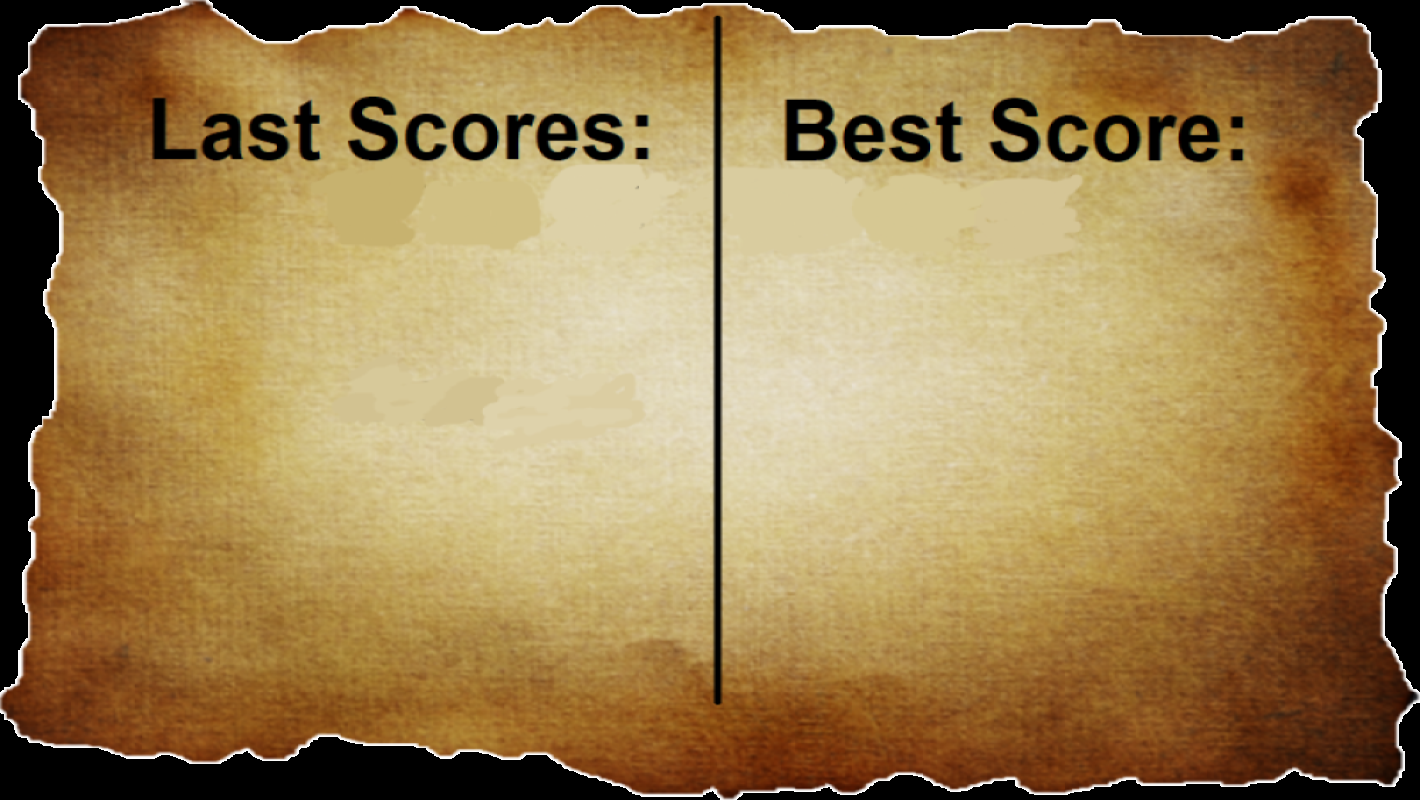
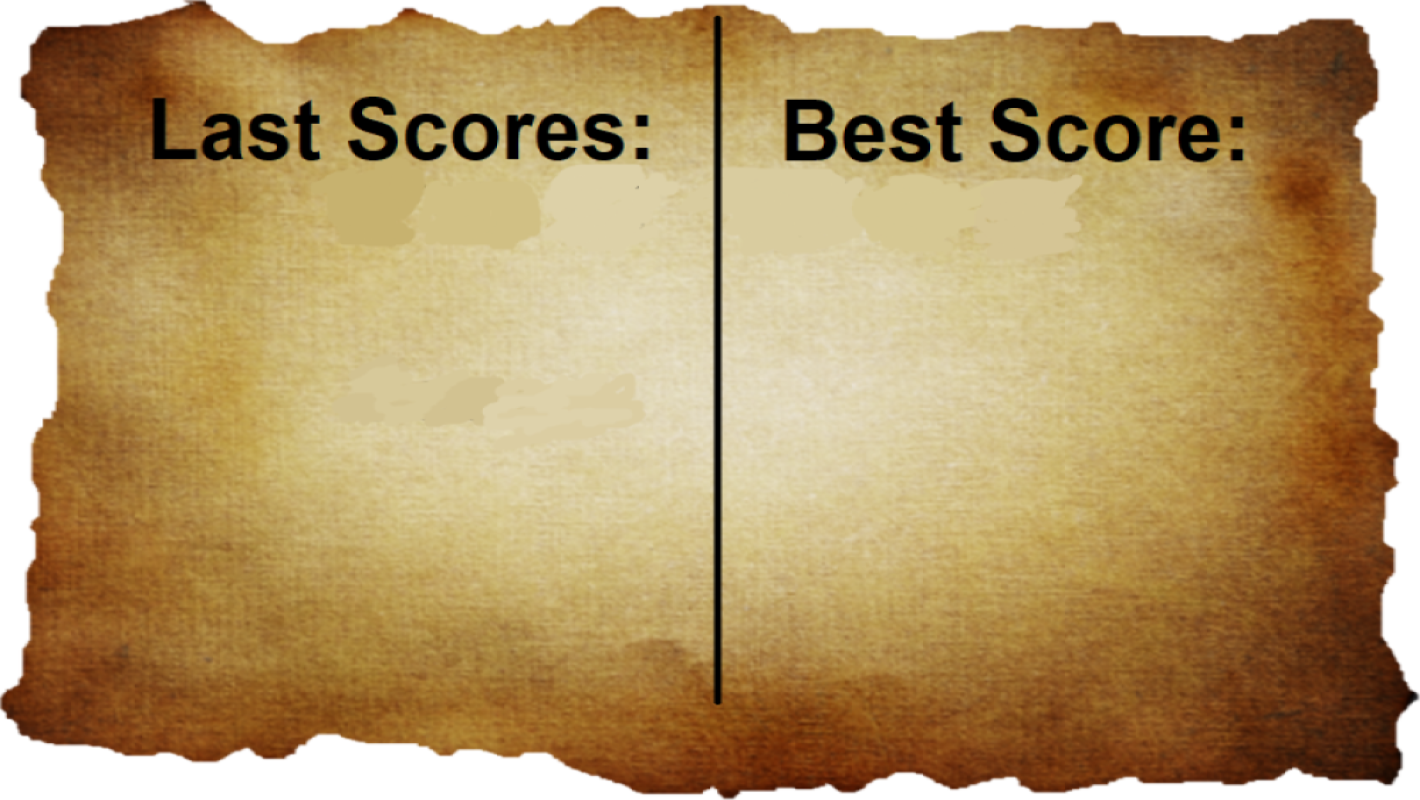
Zapisywanie wyniku imale poprawki

Changed region(s): [[0.0, 0.0, 1.0, 1.0], [0.0, 0.0, 0.1239, 0.875]]

diff --git a/IceTower/GameOverState.cpp b/IceTower/GameOverState.cpp
@@ -11,61 +11,60 @@
 
 namespace Bartux
 {
-	GameOverState::GameOverState(GameDataRef data, int score) : _data(data) , _score(score)
+	GameOverState::GameOverState(GameDataRef data, int score) : _data(data), _score(score)
 	{
 
 	}
 
 	void GameOverState::Init()
 	{
-		std::ifstream readFile;
-		readFile.open("Wyniczki.txt");
+		//wczytaj wyniki z dysku
+		record rekordy[5];
+		std::ifstream readFile("Wyniczki.txt");
 
-
-		if (readFile.is_open())
-		{
-			while (!readFile.eof())
-			{
-				readFile >> _bestScore;
-			}
+		if (readFile.is_open()) {
+			for (size_t i = 0; i < 5; i++)
+				readFile >> rekordy[i].time >> rekordy[i].score;
+			readFile >> _bestScore;
 		}
 
-		std::cout << _bestScore << std::endl;
+		//przesun wyniki
+		for (int i = 3; i >= 0; i--)
+			rekordy[i + 1] = rekordy[i];
 
-		readFile.close();
+		//dopisz wynik
+		rekordy[0].score = _score;
+		rekordy[0].time = time(nullptr);
+		_bestScore = std::max(_bestScore, _score);
 
+		//zapisz wyniki na dysk
 		std::ofstream writeFile("Wyniczki.txt");
 
-		if (writeFile.is_open())
-		{
-			if (_score > _bestScore)
-			{
-				_bestScore = _score;
-			}
-
-			writeFile << _bestScore << std::endl;
-			writeFile << _score << std::endl;
+		if (writeFile.is_open()) {
+			for (size_t i = 0; i < 5; i++)
+				writeFile << rekordy[i].time << ' ' << rekordy[i].score << std::endl;
+			writeFile << _bestScore;
 		}
 
 		writeFile.close();
 
 
 		//this->_data->assets.LoadTexture("game_background", GAME_BACKGROUND_FILEPATH);
-		
+
 		this->_data->assets.LoadTexture("GameOver", GAME_OVER_WINDOW);
 
 		this->_data->assets.LoadTexture("Play Again Button", PLAY_AGAIN_BUTTON);
 
 		//_background.setTexture(this->_data->assets.GetTexture("game_background"));
-	
+
 		_gameOverContainer.setTexture(this->_data->assets.GetTexture("GameOver"));
-		
+
 		_retryButton.setTexture(this->_data->assets.GetTexture("Play Again Button"));
 
 		_gameOverContainer.setPosition(sf::Vector2f((_data->window.getSize().x / 2) - (_gameOverContainer.getGlobalBounds().width / 2), (_data->window.getSize().y / 2) - (_gameOverContainer.getGlobalBounds().height / 2)));
-		
-		_retryButton.setPosition(sf::Vector2f((_data->window.getSize().x / 2) - (_retryButton.getGlobalBounds().width / 2), _gameOverContainer.getPosition().y + _gameOverContainer.getGlobalBounds().height - _retryButton.getGlobalBounds().height * 1.2 ));
-	
+
+		_retryButton.setPosition(sf::Vector2f((_data->window.getSize().x / 2) - (_retryButton.getGlobalBounds().width / 2), _gameOverContainer.getPosition().y + _gameOverContainer.getGlobalBounds().height - _retryButton.getGlobalBounds().height * 1.2));
+
 		_scoreText.setFont(this->_data->assets.GetFont("IceTower Font"));
 		_scoreText.setString(std::to_string(_score));
 		_scoreText.setCharacterSize(100);
@@ -77,9 +76,9 @@ namespace Bartux
 		_bestScoreText.setString(std::to_string(_bestScore));
 		_bestScoreText.setCharacterSize(60);
 		_bestScoreText.setFillColor(sf::Color::White);
-		
-			
-	
+
+
+
 	}
 
 	void GameOverState::HandleInput()
@@ -98,13 +97,13 @@ namespace Bartux
 				{
 					this->_data->window.close();
 				}
-			
+
 				if (event.key.code == sf::Keyboard::Key::Enter)
 				{
 					this->_data->machine.AddState(StateRef(new MainMenuState(_data)), true);
 				}
 			}
-			
+
 			if (this->_data->input.IsSpriteClicked(this->_retryButton, sf::Mouse::Left, this->_data->window))
 			{
 				this->_data->machine.AddState(StateRef(new GameState(_data)), true);
@@ -123,12 +122,12 @@ namespace Bartux
 
 		//this->_data->window.draw(this->_background);
 
-		
+
 		_data->window.draw(_gameOverContainer);
 		_data->window.draw(_retryButton);
 		_data->window.draw(_scoreText);
 
-		
+
 		this->_data->window.display();
 	}
 }

diff --git a/IceTower/Wyniki.cpp b/IceTower/Wyniki.cpp
@@ -18,60 +18,31 @@ namespace Bartux
 		std::ifstream readFile;
 		readFile.open("Wyniczki.txt");
 
-
+		//wczytaj plik
 		if (readFile.is_open())
 		{
-			while (!readFile.eof())
-			{
-				readFile >> _bestScore;
-				readFile >> _score;
-			}
+			for (size_t i = 0; i < 5; i++)
+				readFile >> rekordy[i].time >> rekordy[i].score;
+			readFile >> _bestScore;
 		}
-
-		//std::cout << _bestScore << std::endl;
-
 		readFile.close();
-
-		std::ofstream writeFile("Wyniczki.txt");
-
-		if (writeFile.is_open())
-		{
-			if (_score > _bestScore)
-			{
-				_bestScore = _score;
-			}
-
-			writeFile << _bestScore;
-		}
-
-		writeFile.close();
-
-		//std::ofstream writeFilewynik("Wyniczkowanie.txt", std::ios::app);
-
-		//if (writeFilewynik.is_open())
-		//{
-		//	
-		//		
-		//
-
-		//	writeFile << _score;
-		//}
-
-		//writeFilewynik.close();
 
 		this->_data->assets.LoadFont("IceTower Font", ICETWOER_FONT);
 
 		this->_data->assets.LoadTexture("Wyniki_background", WYNIKI_BACKGROUND_FIEPATH);
 		Wynik_background.setTexture(this->_data->assets.GetTexture("Wyniki_background"));
 
-
-
 		_scoreText.setFont(this->_data->assets.GetFont("IceTower Font"));
-		_scoreText.setString(std::to_string(_score));
+		std::string score_txt = "";
+
+		for (size_t i = 0; i < 5; i++)
+			score_txt += std::to_string(rekordy[i].score) + '\n';
+
+		_scoreText.setString(score_txt);
 		_scoreText.setCharacterSize(100);
 		_scoreText.setFillColor(sf::Color::Magenta);
 		_scoreText.setOrigin(sf::Vector2f(_scoreText.getGlobalBounds().width / 2, _scoreText.getGlobalBounds().height / 2));
-		_scoreText.setPosition(sf::Vector2f((_data->window.getSize().x / 10 * 7.25) - 650, (_data->window.getSize().y / 2.15) - 140));
+		_scoreText.setPosition(sf::Vector2f((_data->window.getSize().x / 10 * 7.25) - 650, (_data->window.getSize().y / 2.15) + 120));
 
 		_bestScoreText.setFont(this->_data->assets.GetFont("IceTower Font"));
 		_bestScoreText.setString(std::to_string(_bestScore));
@@ -94,7 +65,7 @@ namespace Bartux
 			}
 			if (event.type == sf::Event::KeyPressed)
 			{
-				
+
 
 				if (event.key.code == sf::Keyboard::Key::Escape)
 				{
@@ -102,19 +73,16 @@ namespace Bartux
 				}
 			}
 
-			
+
 		}
 	}
 
 
-	void Wyniki::Update(float dt)
-	{
-
-	}
+	void Wyniki::Update(float dt) {}
 
 	void Wyniki::Draw(float dt)
 	{
-		this->_data->window.clear(sf::Color::Red);
+		// this->_data->window.clear(sf::Color::Red);
 		this->_data->window.draw(this->Wynik_background);
 
 		_data->window.draw(_scoreText);

diff --git a/IceTower/Definitions.h b/IceTower/Definitions.h
@@ -3,7 +3,7 @@
 #define SCREEN_WIDTH 1420
 #define SCREEN_HEIGHT 800
 
-#define SPLASH_STATE_SHOW_TIME 3.0
+#define SPLASH_STATE_SHOW_TIME 2.0
 #define SPLASH_SCENE_BACKGROUND_FILEPATH "Splash State.jpg"
 
 #define MAIN_MENU_BACKGROUND_FILEPATH "Ice Tower grafika.jpg"
@@ -13,7 +13,7 @@
 #define GROUND_2_FILEPATH "level_one_2.png"
 #define GROUND_3_FILEPATH "level_one_3.png"
 #define ILOSC_POZYCJI_MENU 4
-#define GROUND_MOVEMENT_SPEED 100.0f
+#define GROUND_MOVEMENT_SPEED 200.0f
 #define GROUND_SPAWN_FREQUENCY 2.0f
 
 #define OPTIONS_BACKGROUND_FILEPATH "Options background.png"
@@ -30,7 +30,7 @@
 #define MATE_STATE_FALLING 2
 #define MATE_STATE_JUMPING 3
 
-#define GRAVITY 350.0f
+#define GRAVITY 450.0f
 #define JUMPING_SPEED 700.0f
 
 #define JUMPING_DURATION 0.4f

diff --git a/IceTower/Ground.cpp b/IceTower/Ground.cpp
@@ -82,9 +82,9 @@ namespace Bartux
 
 			}
 
-			else if (_LevelClock.getElapsedTime().asSeconds() > 20.0f)
+			else if (_LevelClock.getElapsedTime().asSeconds() > 10.0f)
 			{
-				float movement = (GROUND_MOVEMENT_SPEED + 200.0f) * dt;
+				float movement = (GROUND_MOVEMENT_SPEED + 300.0f) * dt;
 				
 
 				GroundSprites.at(i).move(0.0f, movement);
@@ -108,9 +108,9 @@ namespace Bartux
 
 			}
 
-			else if (_LevelClock.getElapsedTime().asSeconds() > 20.0f)
+			else if (_LevelClock.getElapsedTime().asSeconds() > 10.0f)
 			{
-				float movement = (GROUND_MOVEMENT_SPEED + 200.0f) * dt;
+				float movement = (GROUND_MOVEMENT_SPEED + 300.0f) * dt;
 
 
 				ScoringGround.at(i).move(0.0f, movement);

diff --git a/IceTower/Wyniki.h b/IceTower/Wyniki.h
@@ -6,6 +6,10 @@
 
 namespace Bartux
 {
+typedef struct {
+	int score = 0;
+	int time = 0;
+} record;
 
 class Wyniki : public State
 {
@@ -14,7 +18,6 @@ public:
 	Wyniki(GameDataRef data);
 
 	void Init();
-
 	void HandleInput();
 	void Update(float dt);
 	void Draw(float dt);
@@ -23,16 +26,13 @@ private:
 	GameDataRef _data;
 
 	sf::Sprite Wynik_background;
-
-
 	sf::Sprite Score_List;
 	
-
 	sf::Text _scoreText;
 	sf::Text _bestScoreText;
 
-	int _score;
+	record rekordy[5];
+
 	int _bestScore;
 };
-
 }

diff --git a/IceTower/GameState.cpp b/IceTower/GameState.cpp
@@ -179,10 +179,10 @@ namespace Bartux
 		{
 			ground->MoveGround(dt);
 
-			if (LevelClock.getElapsedTime().asSeconds() > 20.0f)
+			if (LevelClock.getElapsedTime().asSeconds() > 10.0f)
 			{
-				float B = GROUND_SPAWN_FREQUENCY - 1.0f;
-
+				float B = GROUND_SPAWN_FREQUENCY - 1.4f;
+			;
 				if (clock.getElapsedTime().asSeconds() > B)
 				{
 					ground->RandomiseGroundOffset();

diff --git a/IceTower/Game.cpp b/IceTower/Game.cpp
@@ -43,9 +43,10 @@ namespace Bartux
 				this->_data->machine.GetActiveState()->HandleInput();
 				this->_data->machine.GetActiveState()->Update(dt);
 
-				accumulator -= dt;
+				accumulator = 0;
 			}
 
+			// Usrednianie animacji
 			interpolation = accumulator / dt;
 			this->_data->machine.GetActiveState()->Draw(interpolation);
 		}

diff --git a/IceTower/Game.h b/IceTower/Game.h
@@ -25,7 +25,7 @@ namespace Bartux
 		Game(int width, int height, std::string title);
 
 	private:
-		// aktualizacja 60/sec
+		// ustawienie predkosci aktualizacji 60/sec
 		const float dt = 1.0f / 60.0f;
 		sf::Clock _clock;
 
